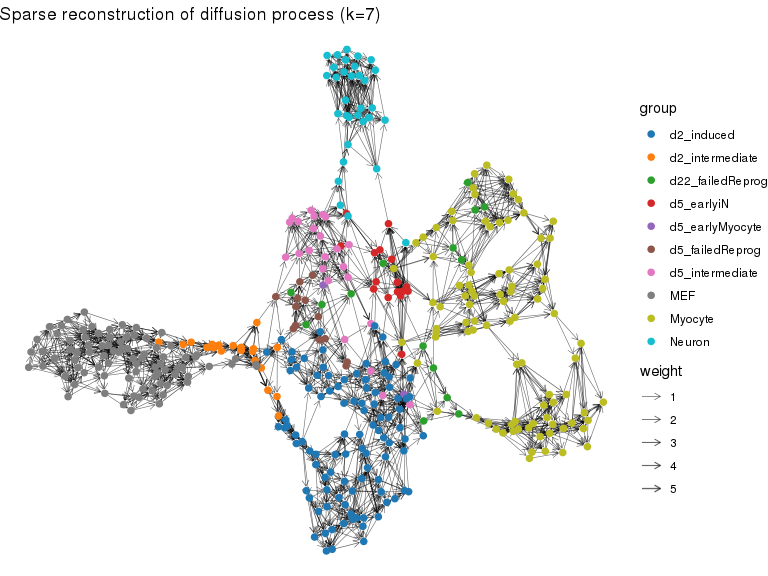
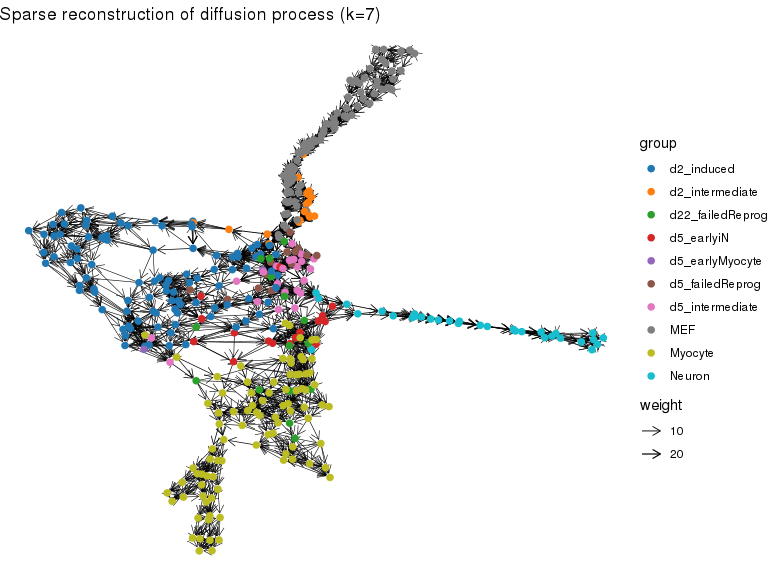
version 0.11: some performance improvements (irlba is now required for ddhodge), implementation of multi-source/sink max-flow

Changed region(s): [[0.0312, 0.0625, 0.9062, 0.9688], [0.8125, 0.1562, 1.0, 0.6562], [0.8438, 0.8438, 0.875, 0.875]]

diff --git a/README.md b/README.md
@@ -1,16 +1,27 @@
 
 <!-- README.md is generated from README.Rmd. Please edit that file -->
-ddhodge
-=======
 
-The goal of ddhodge is to be a toolkit to analyse underlying "flow" structure (e.g., time or causal relations) in the *hodge-podge* collection of data points. ddhodge will help to interpret/visualize the large data sets including, but not limited to, high-throughput measurements of biological data (e.g., single-cell RNA-seq) which we mainly focus on.
+# ddhodge
 
-ddhodge is built on a mathematical framework of Hodge decomposition on simplicial complex that gives us fruitful analogy of gradient, curl and harmonic (cyclic) flows on manifold. ddhoge can thus potentially handles any (both of acyclic and cyclic) directed graph structure.
+The goal of ddhodge is to be a toolkit to analyse underlying “flow”
+structure (e.g., time or causal relations) in the *hodge-podge*
+collection of data points. ddhodge will help to interpret/visualize the
+large data sets including, but not limited to, high-throughput
+measurements of biological data (e.g., single-cell RNA-seq) which we
+mainly focus on.
 
-The first version of this package implements `diffusionGraph` as a design of edges. The resulting graph consists of sparse gradient flows (i.e. pure directed acyclic graph) and is suitable to sketch out the ideas from a simplified flow network of a stochastic process along high-dimensional energy landscape.
+ddhodge is built on a mathematical framework of Hodge decomposition on
+simplicial complex that gives us fruitful analogy of gradient, curl and
+harmonic (cyclic) flows on manifold. ddhoge can thus potentially handles
+any (both of acyclic and cyclic) directed graph structure.
 
-Installation
-------------
+The first version of this package implements `diffusionGraph` as a
+design of edges. The resulting graph consists of sparse gradient flows
+(i.e. pure directed acyclic graph) and is suitable to sketch out the
+ideas from a simplified flow network of a stochastic process along
+high-dimensional energy landscape.
+
+## Installation
 
 You can install the alpha version of `ddhodge` with:
 
@@ -18,21 +29,25 @@ You can install the alpha version of `ddhodge` with:
 devtools::install_github("kazumits/ddhodge")
 ```
 
-Methods
--------
+## Methods
 
 Please refer to our preprint.
 
--   Modeling latent flows on single cell data using the Hodge decomposition <https://doi.org/10.1101/592089>
+  - Modeling latent flows on single cell data using the Hodge
+    decomposition <https://doi.org/10.1101/592089>
 
-Example
--------
+## Example
 
-This is a basic example which shows you how to dissect the pseudo-time flow, which we define here as a potential flow (defined through diffusion process), of the single-cell RNA-seq data. ddhodge can further extract and visualize *sink* and *source* information as a divercence of the extracted flow.
+This is a basic example which shows you how to dissect the pseudo-time
+flow, which we define here as a potential flow (defined through
+diffusion process), of the single-cell RNA-seq data. ddhodge can further
+extract and visualize *sink* and *source* information as a divercence of
+the extracted flow.
 
 #### Load packages
 
-Please confirm that these packages are installed before trying this example.
+Please confirm that these packages are installed before trying this
+example.
 
 ``` r
 library(ddhodge)
@@ -44,7 +59,10 @@ library(ggraph)
 
 #### Load scRNA-seq data
 
-Load data of from [GSE6731](https://www.ncbi.nlm.nih.gov/geo/query/acc.cgi?acc=GSE67310) (Treutlein et. al., 2016).
+Load data of from
+[GSE6731](https://www.ncbi.nlm.nih.gov/geo/query/acc.cgi?acc=GSE67310)
+(Treutlein et. al.,
+2016).
 
 ``` r
 dat <- read_tsv("https://www.ncbi.nlm.nih.gov/geo/download/?acc=GSE67310&format=file&file=GSE67310%5FiN%5Fdata%5Flog2FPKM%5Fannotated.txt.gz") %>% filter(assignment!="Fibroblast") 
@@ -59,7 +77,8 @@ X <- 2^X[apply(X,1,var)>0,] - 1
 Specify input data matrix and roots (starting points).
 
 ``` r
-g <- diffusionGraph(X,group=="MEF",k=7,ndc=40)
+#g <- diffusionGraph(X,group=="MEF",k=11,npc=50,ndc=20,s=10)
+g <- diffusionGraph(X,group=="MEF",k=7,npc=100,ndc=40,s=2)
 ```
 
 #### Visualizations
@@ -70,20 +89,24 @@ dggraph <- function(g,...)
   geom_edge_link(
     aes(width=weight),
     colour="black",
-    arrow=arrow(length=unit(1.8,"mm")),
-    end_cap = circle(1.2,'mm'), alpha=0.6,
+    #arrow=arrow(length=unit(1.8,"mm")),
+    arrow=arrow(length=unit(2.4,"mm")),
+    #end_cap = circle(1.2,'mm'), alpha=0.6,
+    end_cap = circle(1.2,'mm'),
   ) + scale_edge_width(range=c(0.2,0.5)) +
   geom_node_point(...)
 
 igraph::V(g)$group <- group
-set.seed(123) # for reproducible graph layout
+#set.seed(123) # for reproducible graph layout
+set.seed(321) # for reproducible graph layout
 lo <- create_layout(g,"fr")
 
 p1 <- dggraph(lo,aes(colour=group),size=2) +
   ggtitle("Sparse reconstruction of diffusion process (k=7)") +
   scale_color_d3("category10")
 
-p2 <- dggraph(lo,aes(colour=div,size=div^2)) +
+#p2 <- dggraph(lo,aes(colour=div,size=div^2)) +
+p2 <- dggraph(lo,aes(colour=div),size=3) +
   ggtitle("Divergence tells us the source and sink.") +
   scale_color_gradient2(low="blue",mid="grey",high="red")
 
@@ -122,15 +145,11 @@ print(list(p1,p2,p3,p4))
 Max-flow as a mainstream of paths between specified source-sink pair.
 
 ``` r
-mf <- igraph::max_flow(g,
-  source = which(group=="MEF")[3],
-  target = which(group=="Neuron")[11],
-  capacity = igraph::E(g)$weight
-)
-igraph::E(g)$flow <- mf$flow
-set.seed(77)
+g <- multimaxflow(g,which(group=="MEF"),which(group=="Neuron")[10:15])
+#g <- multimaxflow(g,which(group=="MEF"),which(group=="Myocyte")[10:15])
+set.seed(321)
 ggraph(g,"lgl") + theme_void() +
-  geom_node_point(aes(colour=group,size=div^2)) +
+  geom_node_point(aes(colour=group,size=pass)) +
   geom_edge_link(
     aes(width=flow),
     colour="black",
@@ -141,10 +160,9 @@ ggraph(g,"lgl") + theme_void() +
 
 <img src="man/figures/README-maxflow-1.png" width="100%" />
 
-TODO
-----
+## TODO
 
--   Add more examples and documentations
--   Assessing cluster-to-cluster flow for coarse-grained interpretation of data
--   Construction of causal graph structure including cyclic flows
--   Pseudo-dynamics reconstruction using extracted pseudo-time structures
+  - Add more examples and documentations
+  - Construction of causal and cyclic flows
+  - Pseudo-dynamics reconstruction using extracted pseudo-time
+    structures
